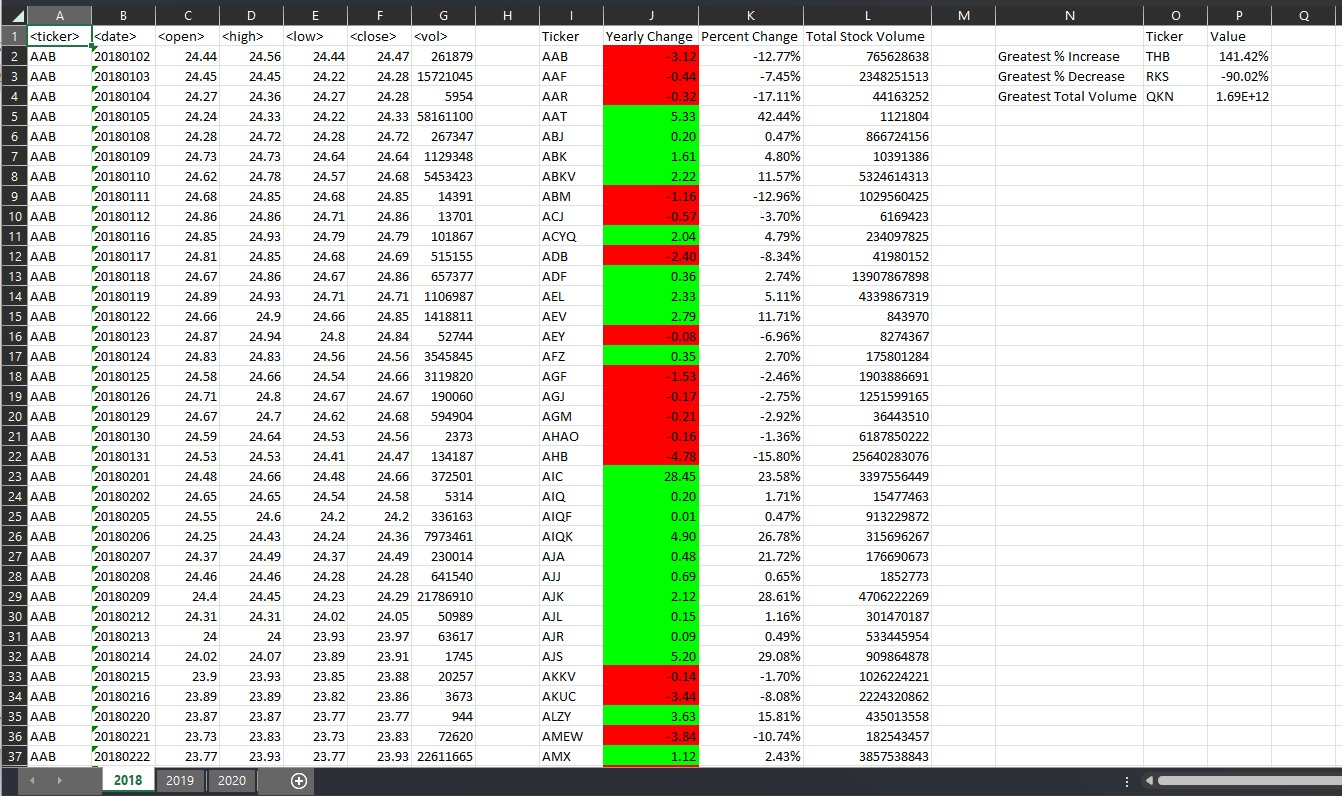
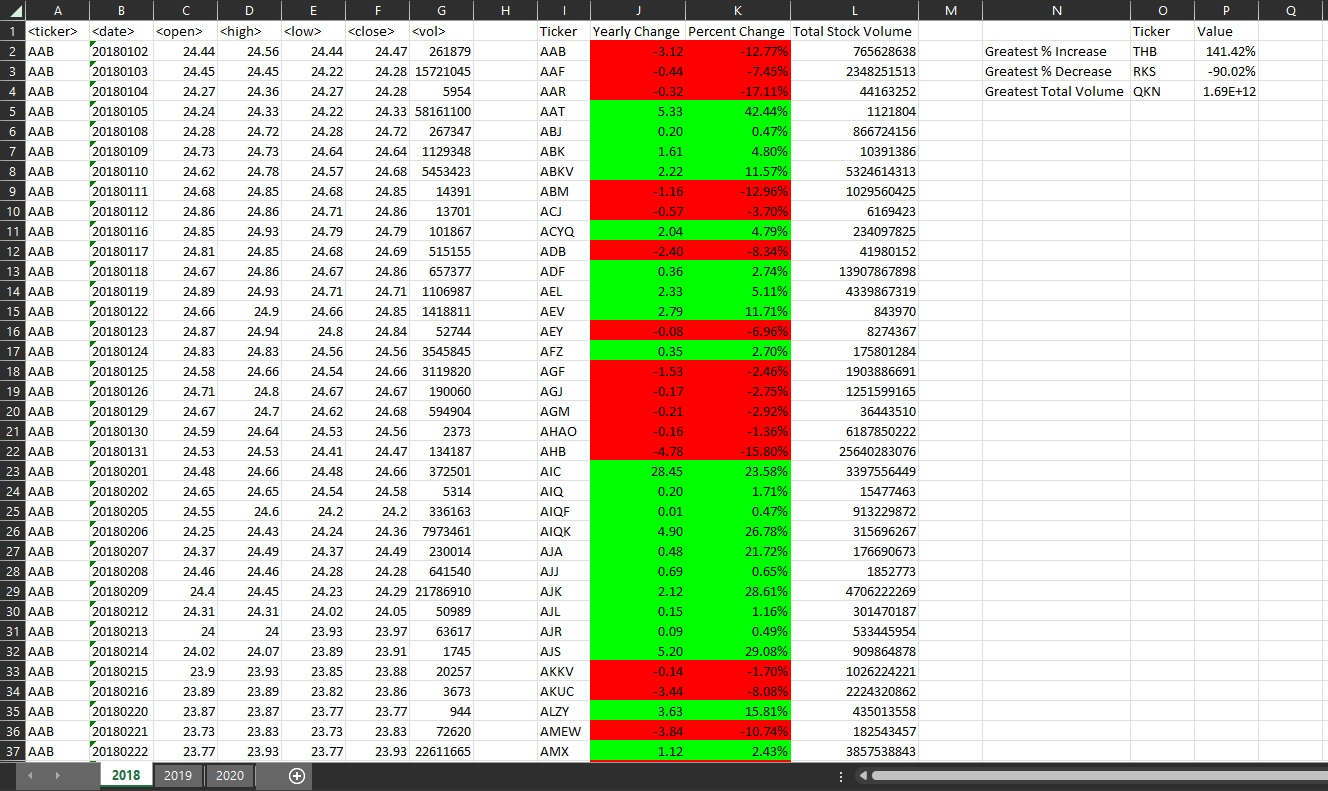
Should be final VBA-challenge files. Minor tweaks to code to improve efficiency, wrote the README, and updated the screenshots.

diff --git a/Homework/Week2/README.md b/Homework/Week2/README.md
@@ -1,2 +1,35 @@
 # UofT_Data_analytics/Homework/Week2
 
+## Table of Contents
+
+1. Purpose
+2. Assumptions and Requirements
+3. Instructions
+
+## Purpose
+
+This code is written in VBA, for use with Excel datasets, to fulfill the "VBA-challenge" homework assignment in the UofT data analytics course. 
+
+More generally, this code is used to automate analysis and summary of stock data for a period of time. 
+
+## Assumptions, Requirements, and Runtime 
+
+The code assumes that the data is provided in an Excel file, formatted in columns with headers starting at cell A1. The code can take indefinite formatted worksheets.
+
+Sheets should consist of one of each column: ticker, date, open price, high, low, close price, and stock volume in order.
+
+The code starts by sorting by ticker and then by date, so sorting within the columns doesn't matter.
+
+Summary statistics are based on whatever timeframe is represented in the data; for homework purposes, the assumption is one year per sheet but the exact number of datapoints doesn't matter except to runtime.
+
+This code can take a while to run: I've observed it taking ~5 minutes per sheet for the full dataset to run on a 4-year old laptop (so ~15 minutes total), and ~25 seconds per sheet on a higher-powered desktop (so ~1.25 minutes total).
+
+
+## Instructions 
+
+The single VBA file has everything required. 
+
+1. Open the Excel file with the provided data
+2. Open the Developer tab and VisualBasic
+3. Import the VBA code (*.bas file)
+4. Run the code from the Excel (choose the macro) or F5 from the VBA editor
